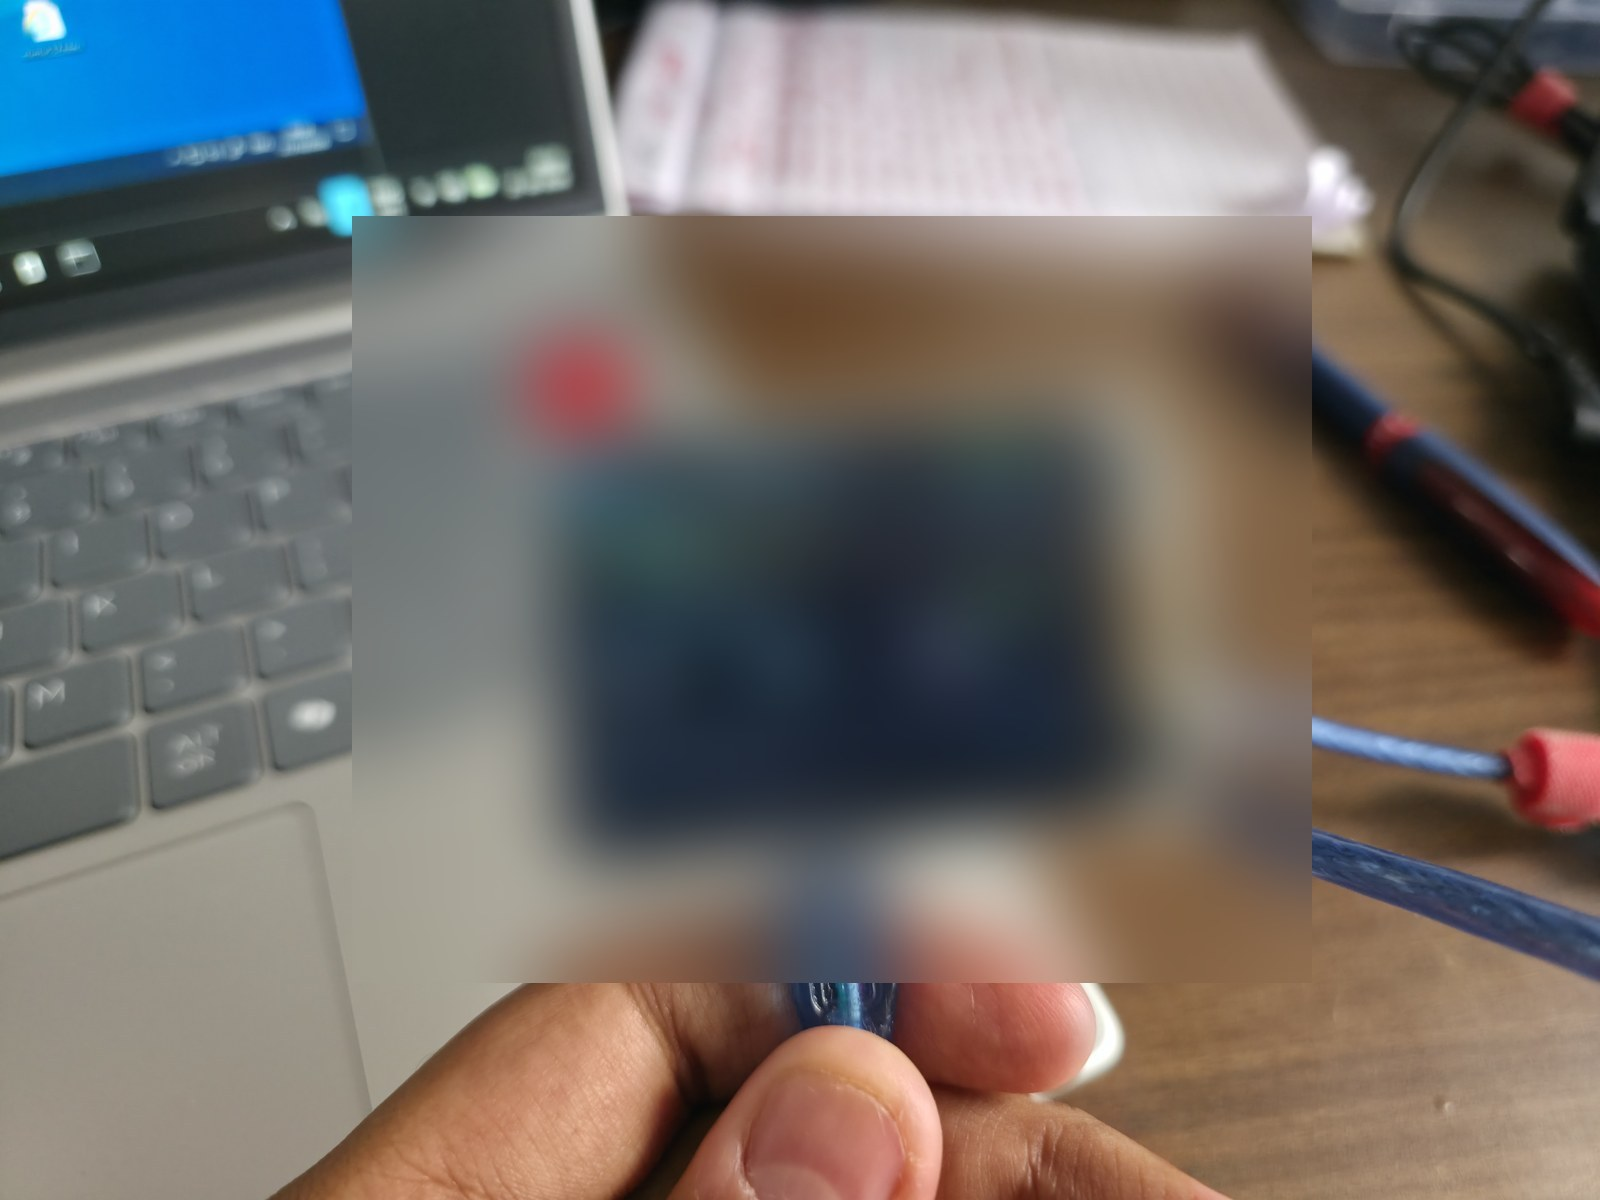
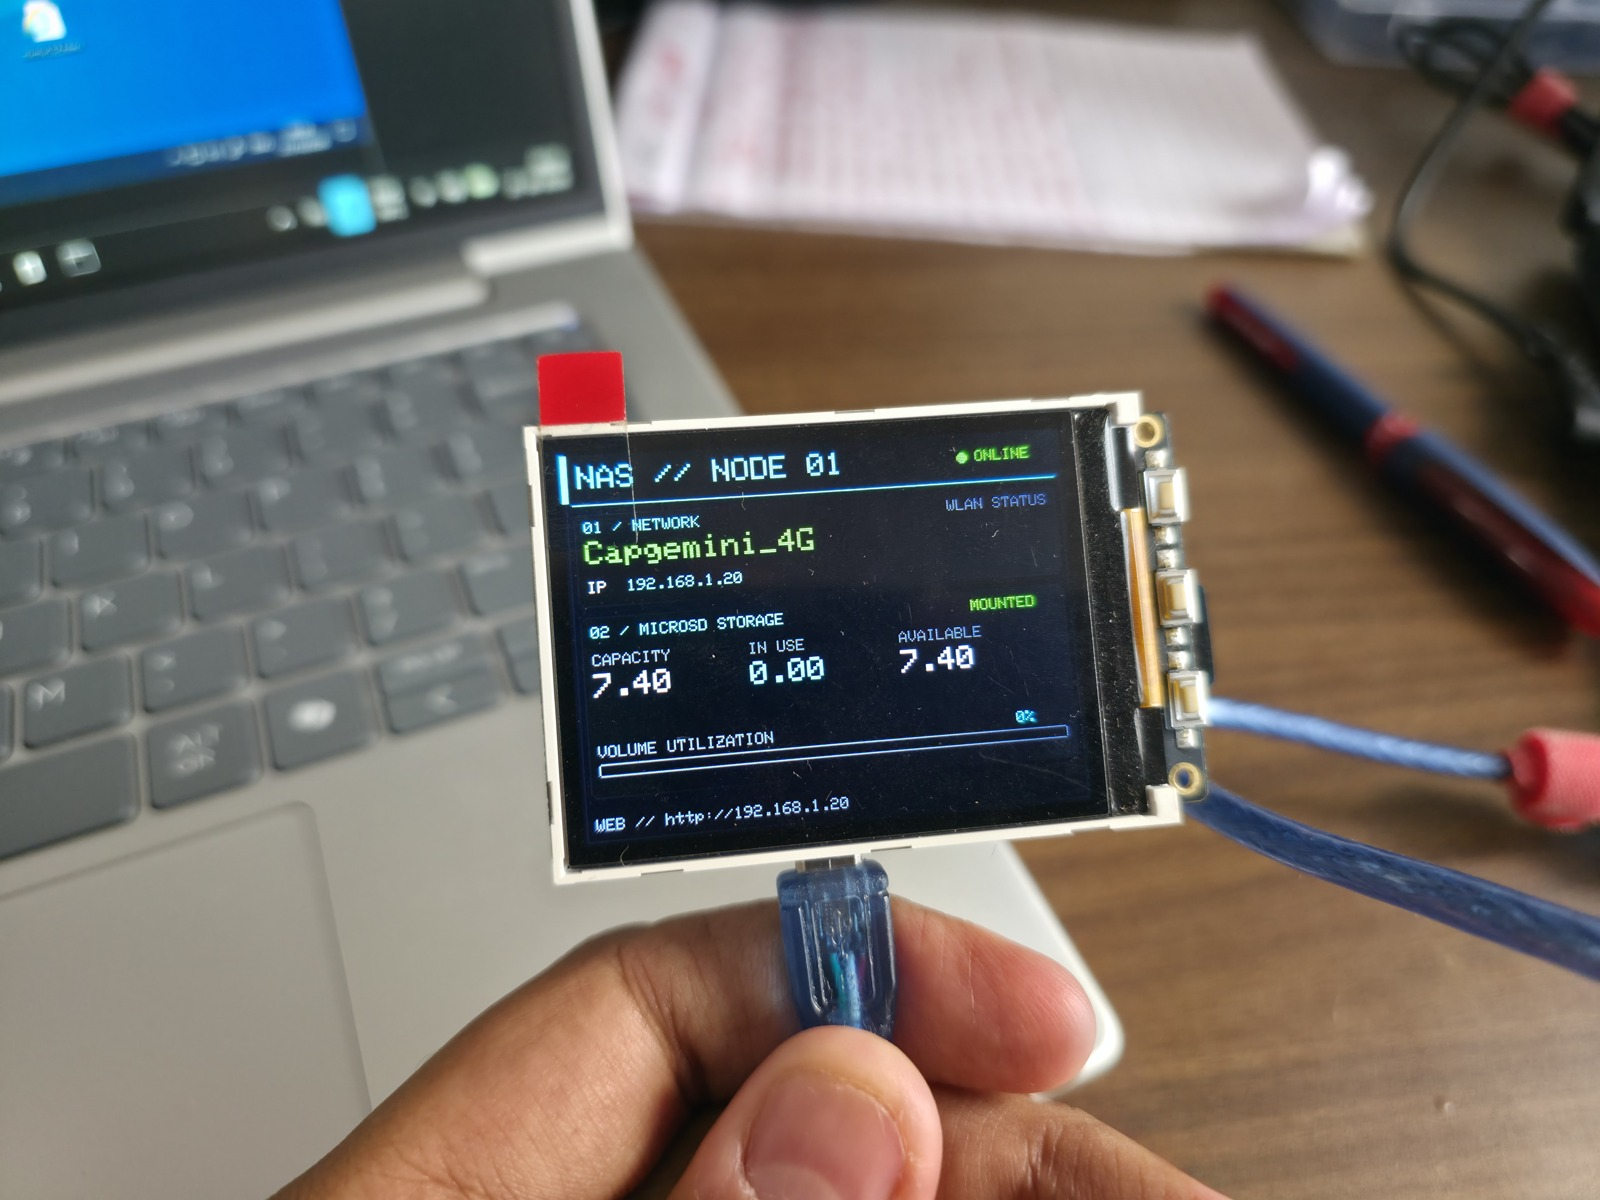
Remove TFT screenshot and restore original board photo

Changed region(s): [[0.2188, 0.1542, 0.8438, 0.8325], [0.2188, 0.5242, 0.2812, 0.555]]

diff --git a/examples/ESP32_NAS/README.md b/examples/ESP32_NAS/README.md
@@ -20,10 +20,6 @@ PlatformIO-only port of the ESP32 NAS project for the LILYGO TTGO T4 V1.3 (2.4-i
 
 The file manager provides a browser-based view of the microSD card, including storage usage, transfer status, and device network status. Example items shown include the `LOSTDIR` and `photos` folders, plus PDF documents such as `Custom G-Codes-for-FPS+and-P2S+Bambu+Lab+printers.pdf` and `Urvsh Nukum - 20-Aug-2026.pdf`.
 
-### TFT status display
-
-![LILYGO T4 NAS status screen](images/lcd_status.jpg)
-
 ## Hardware / pin map
 
 | Function | GPIO |
